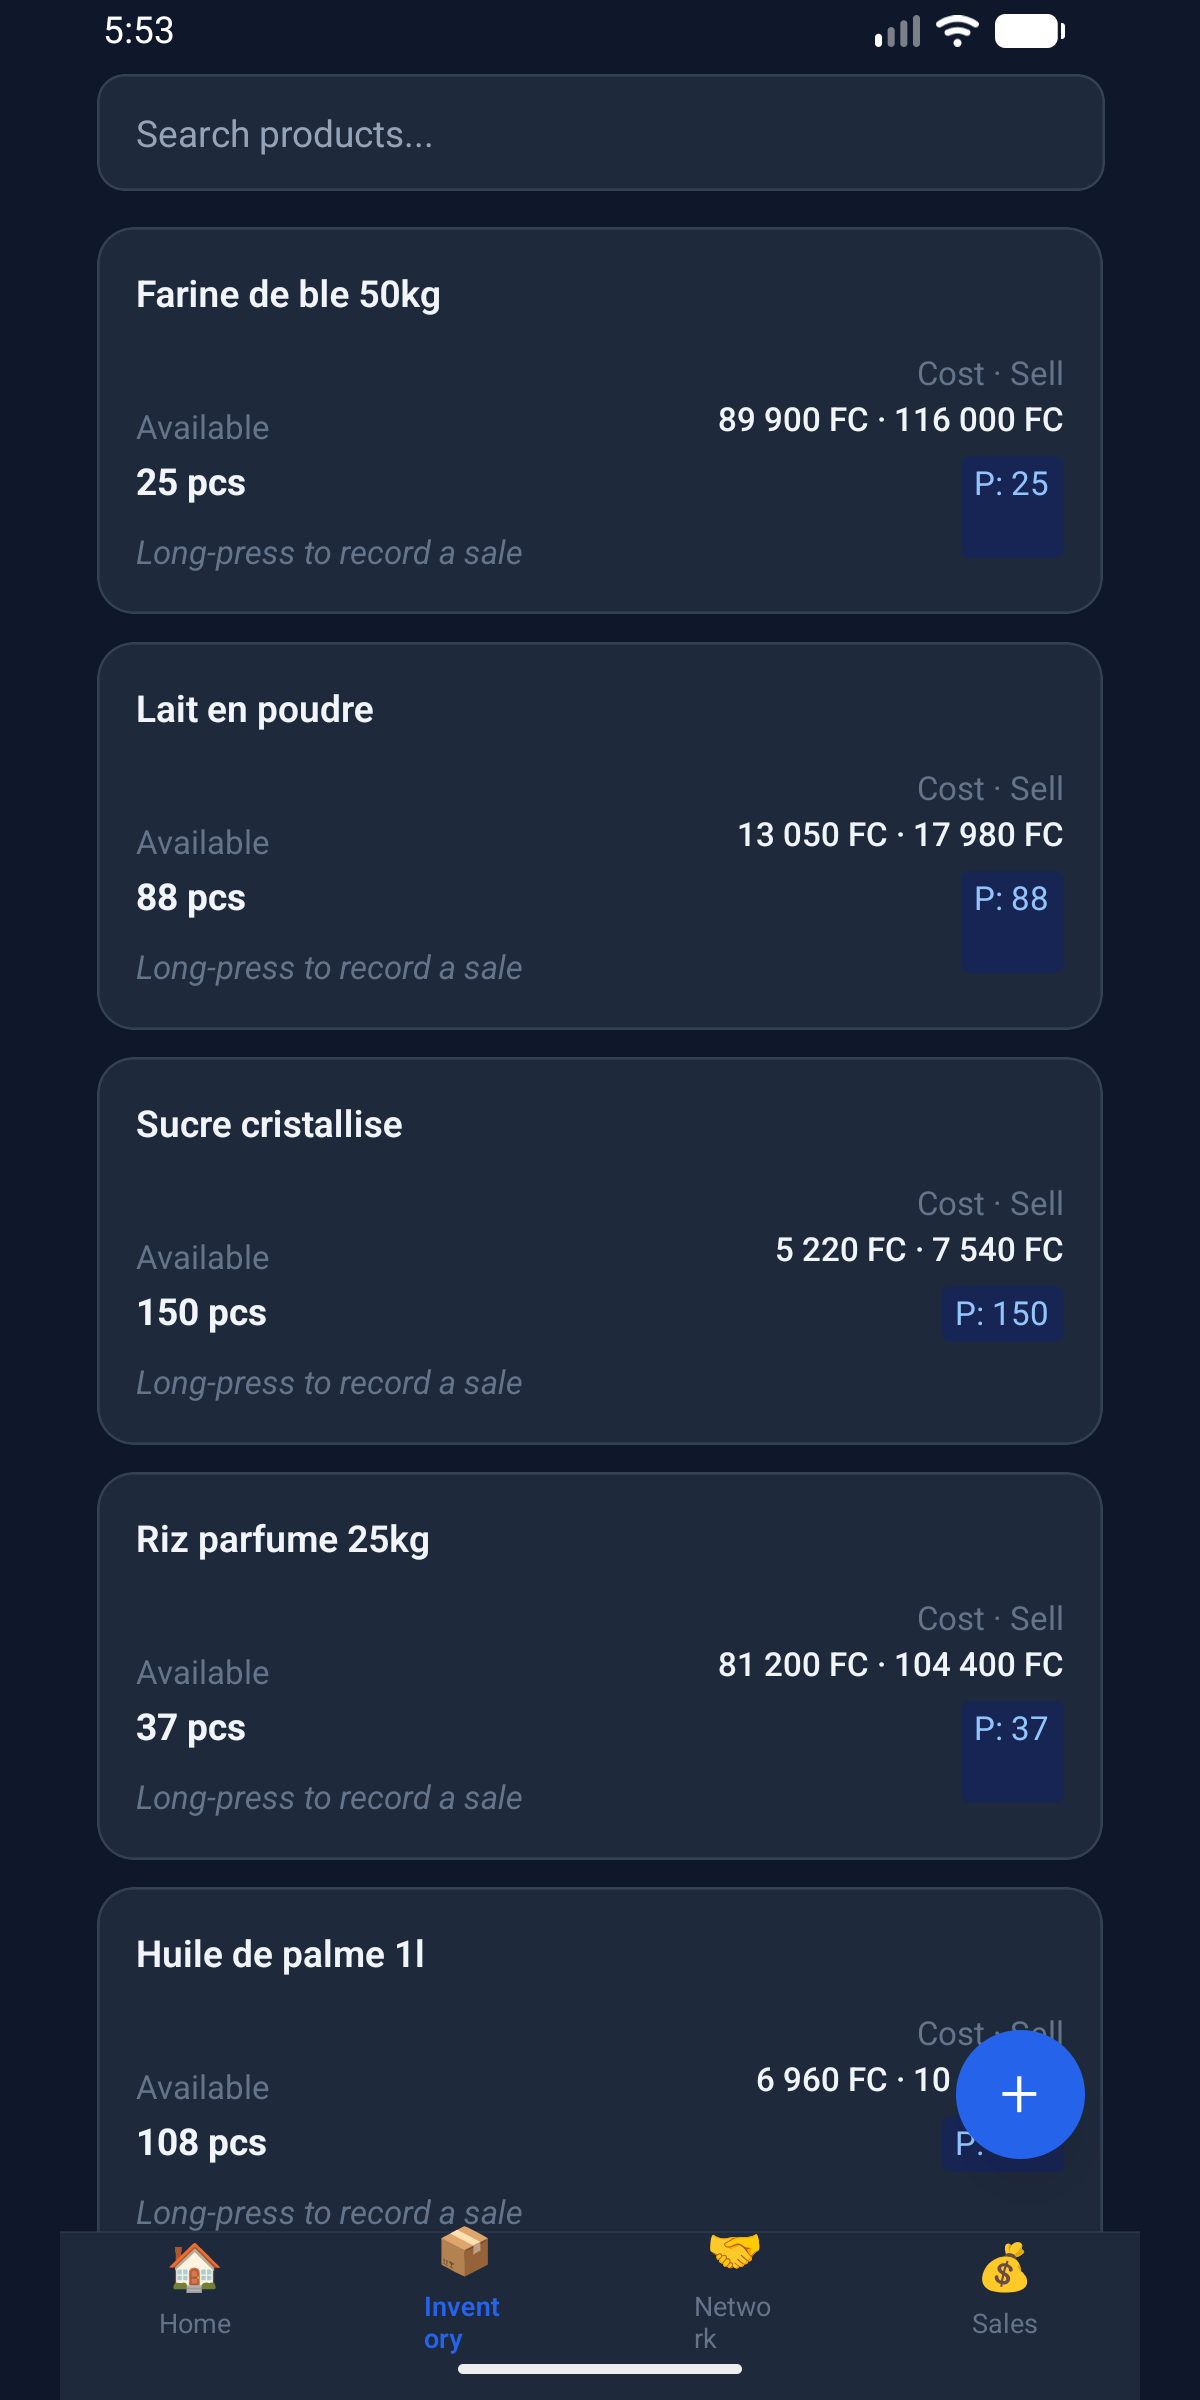
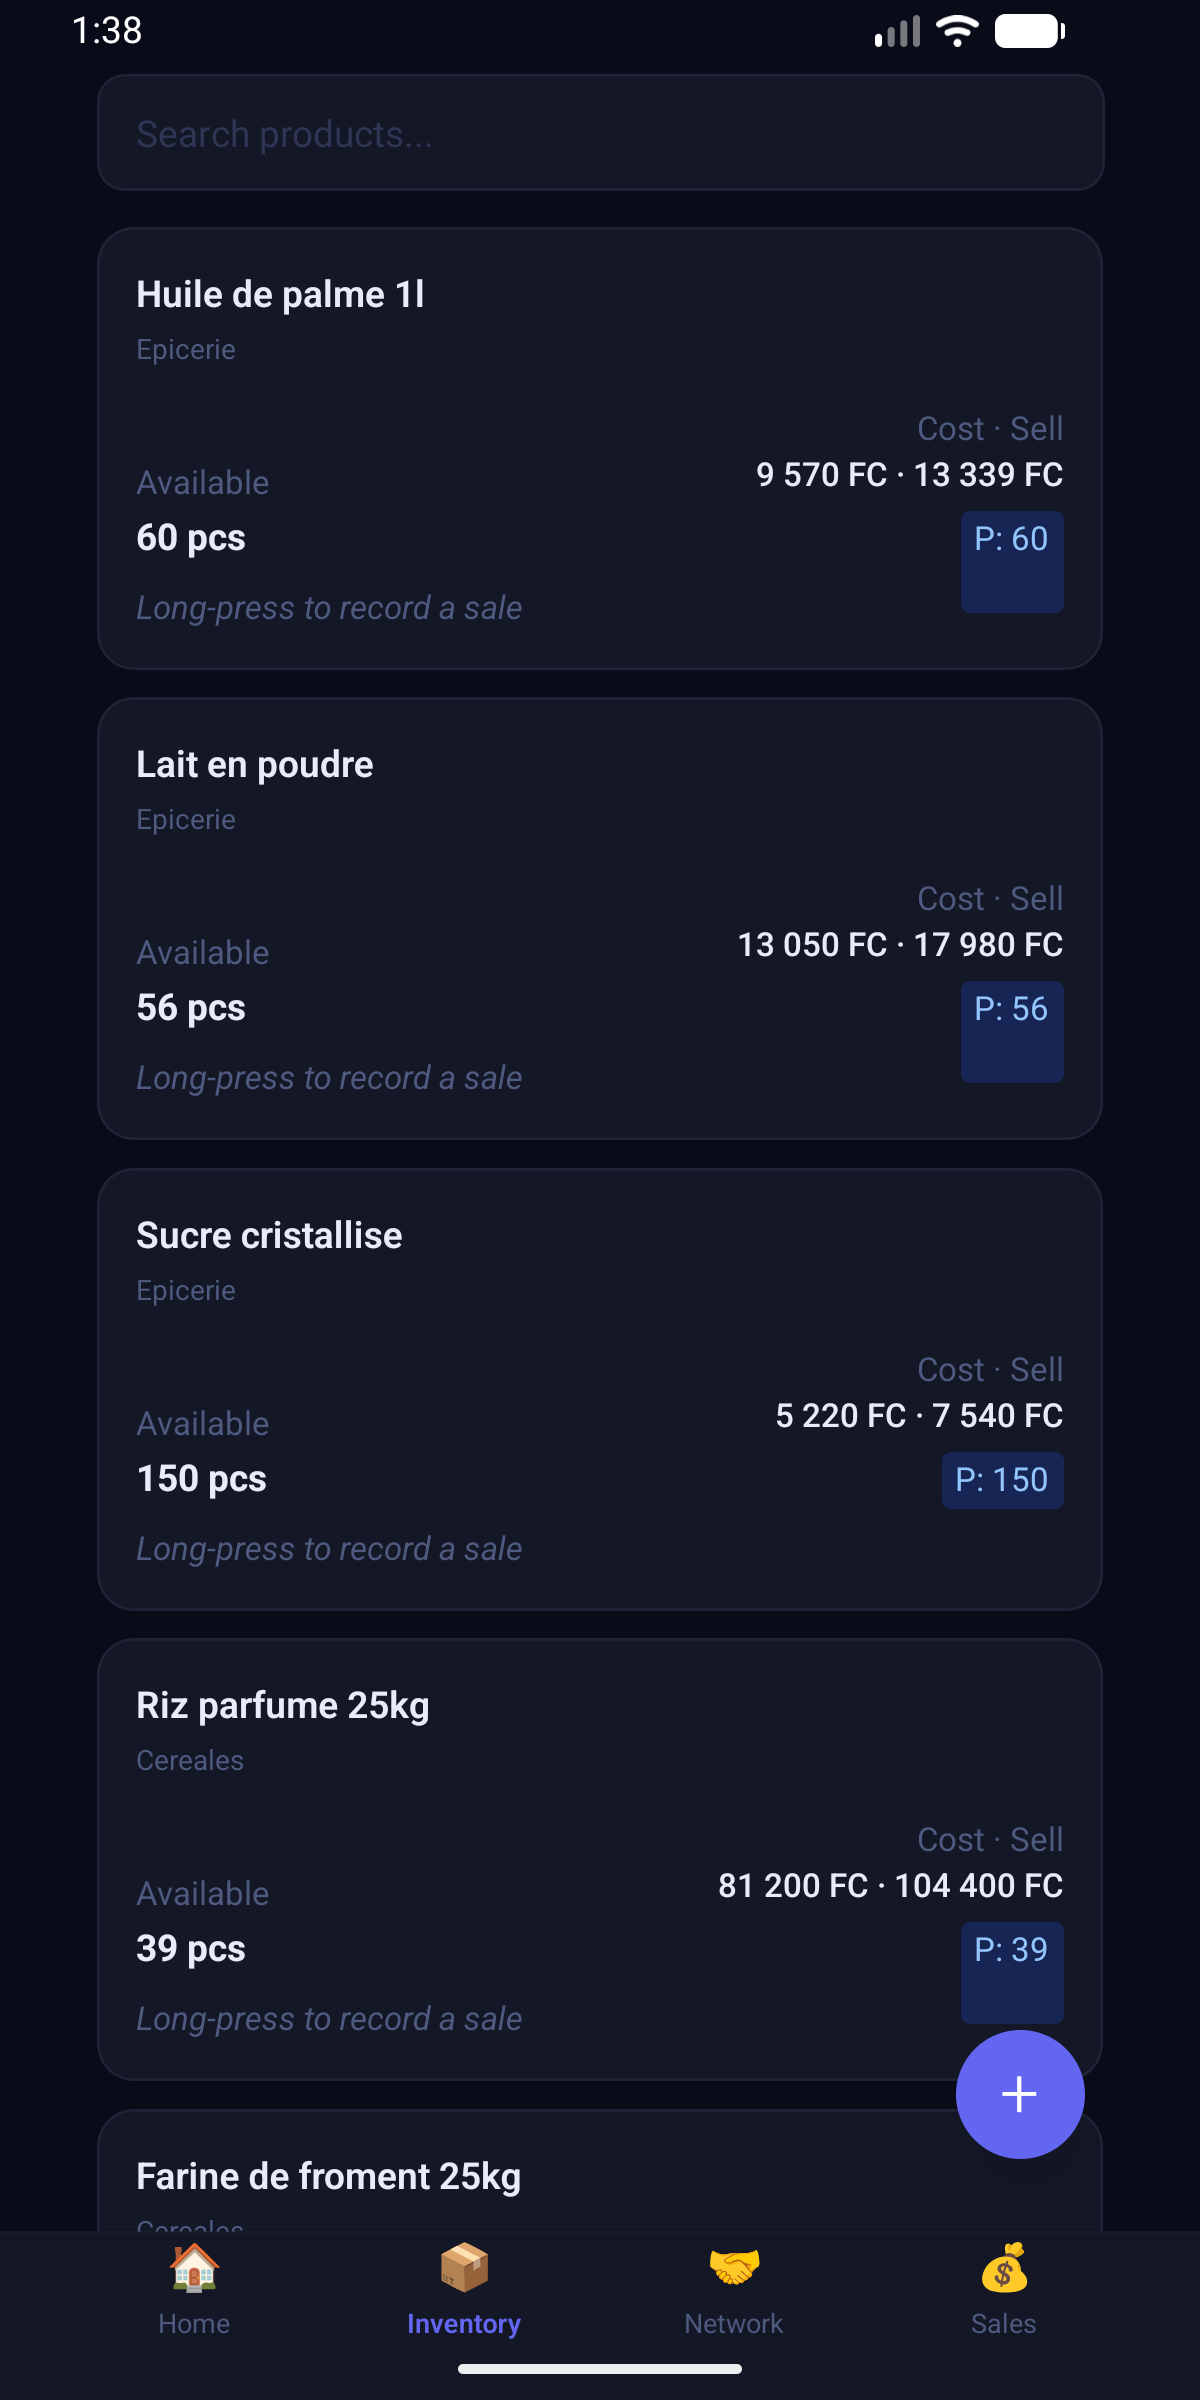
Retake phone pictures

diff --git a/apps/mobile/app/(tabs)/_layout.tsx b/apps/mobile/app/(tabs)/_layout.tsx
@@ -6,7 +6,13 @@ import { usePermissions } from '../../lib/permissions';
 
 function TabIcon({ label, emoji, focused }: { label: string; emoji: string; focused: boolean }) {
   return (
-    <View className="items-center justify-center pt-1">
+    // `minWidth` is doing real work. React Navigation sizes the icon slot to the
+    // icon, so the label inherited a box far narrower than the tab itself and
+    // `numberOfLines={1}` resolved that by clipping — "Inventory" shipped as
+    // "Inve…" and "Network" as "Netw…" in the store screenshots. A tab is a
+    // quarter of the screen (~90dp on the narrowest phones we target), so 76 is
+    // comfortably inside it and gives the longest label room to render whole.
+    <View className="items-center justify-center pt-1" style={{ minWidth: 76 }}>
       <Text className="text-xl">{emoji}</Text>
       {/* One line always: at narrow tab widths "Inventory" was wrapping to
           "Invent / ory", which looked broken in screenshots and on small phones. */}

diff --git a/PRIVACY_POLICY.md b/PRIVACY_POLICY.md
@@ -1,0 +1,117 @@
+# Privacy Policy for KMB-Talk
+
+**Last updated: 27 August 2026**
+
+This Privacy Policy explains how the KMB-Talk mobile application ("KMB-Talk", "the app", "we", "us", or "our") collects, uses, and protects your information. KMB-Talk is a business management tool that helps small traders and resellers manage inventory, sales, credit/debt, and financial reconciliation.
+
+By creating an account and using KMB-Talk, you agree to the practices described in this Privacy Policy.
+
+---
+
+## 1. Who we are
+
+KMB-Talk is operated by the developer of KMB-Talk ("the operator").
+
+- **Contact email:** support@kmb-talk.com
+- **Website:** https://kmb-talk.com
+- **App package name:** com.kmb.mobile
+
+---
+
+## 2. Information we collect
+
+We collect only the information needed to provide the app's features.
+
+### a) Information you provide
+- **Account information:** your name, email address, and phone number, used to create and secure your account and to sign you in.
+- **Business and financial data you enter:** product/inventory records, purchase and selling prices, sales transactions, supplier and debtor records, payments, debts/credits, expenses, withdrawals, exchange rates, and related notes. This data is what the app exists to manage on your behalf.
+- **Employee/employer relationships:** if you use the app as an employee acting on an employer's books (or as an employer), we store the link between those accounts to apply the correct permissions.
+
+### b) Information collected automatically
+- **Authentication tokens:** a secure login token is stored on your device (in the device's secure storage) so you stay signed in.
+- **Push notification identifier:** if you enable notifications, we collect a push token from the device's notification service so we can send you alerts (for example, low-stock reminders).
+- **App preferences:** your language (English/French) and theme (light/dark) settings, stored to personalize your experience.
+
+### c) Information we do **not** collect
+- We do **not** collect your precise location.
+- We do **not** collect contacts, photos, microphone, or camera data.
+- We do **not** use third-party advertising or sell your data to advertisers.
+- **Bluetooth** is used **only** to connect to a thermal receipt printer you choose to pair. We do not collect or transmit any data through Bluetooth; it is used locally on your device to print receipts.
+
+---
+
+## 3. How we use your information
+
+We use the information we collect to:
+- Create, authenticate, and secure your account.
+- Provide the core features of the app: inventory, sales, credit/debt tracking, payments, expenses, and financial reporting.
+- Sync your business data so it is available across your sessions and devices.
+- Send you operational notifications you have enabled (e.g. low-stock alerts).
+- Maintain the security, integrity, and reliability of the service.
+
+We process your data to provide the service you requested and to operate and improve the app. We do **not** use your business or financial data for advertising.
+
+---
+
+## 4. How your data is stored and protected
+
+- Your data is transmitted over encrypted connections (HTTPS) between the app and our servers.
+- Account passwords are stored only in **hashed** form and are never stored or transmitted in plain text.
+- Login tokens are kept in your device's **secure storage**.
+- Your business data is stored on our backend infrastructure hosted with our hosting provider (Contabo). 
+We apply reasonable administrative and technical safeguards to protect it.
+
+No method of transmission or storage is 100% secure, but we take reasonable measures to protect your information.
+
+---
+
+## 5. Sharing of information
+
+We do **not** sell your personal or business data. We share information only:
+- **With service providers** that host and operate the app's infrastructure (e.g. our cloud hosting provider), strictly to run the service.
+- **Between linked employer and employee accounts**, only to the extent needed to operate shared books, according to the permissions you set.
+- **When required by law**, such as to comply with a legal obligation, court order, or valid government request.
+
+---
+
+## 6. Data retention
+
+We retain your account and business data for as long as your account is active so the app remains useful to you. If you request account deletion, your personal data and associated business records are scheduled for deletion. You can request deletion at any time (see Section 8).
+
+---
+
+## 7. Children's privacy
+
+KMB-Talk is a business tool intended for adults (18+) and is **not directed at children**. We do not knowingly collect personal information from children. If you believe a child has provided us with personal information, please contact us so we can remove it.
+
+---
+
+## 8. Your rights and choices
+
+Depending on your location, you may have the right to:
+- **Access** the personal data we hold about you.
+- **Correct** inaccurate data (most data is editable directly in the app).
+- **Delete** your account and associated data. The app provides an account-deletion option, and you can also request deletion by emailing us.
+- **Withdraw consent** for notifications by disabling them in your device or app settings.
+
+To exercise any of these rights, contact us at the email in Section 1. We will respond within a reasonable timeframe.
+
+---
+
+## 9. International users
+
+Your information may be processed and stored on servers located outside your country of residence. By using the app, you consent to the transfer and processing of your information in those locations, with the protections described in this policy.
+
+---
+
+## 10. Changes to this policy
+
+We may update this Privacy Policy from time to time. When we do, we will revise the "Last updated" date at the top. Significant changes may also be communicated within the app. Your continued use of the app after an update constitutes acceptance of the revised policy.
+
+---
+
+## 11. Contact us
+
+If you have any questions about this Privacy Policy or how your data is handled, contact us at:
+
+**Email:** support@kmb-talk.com
